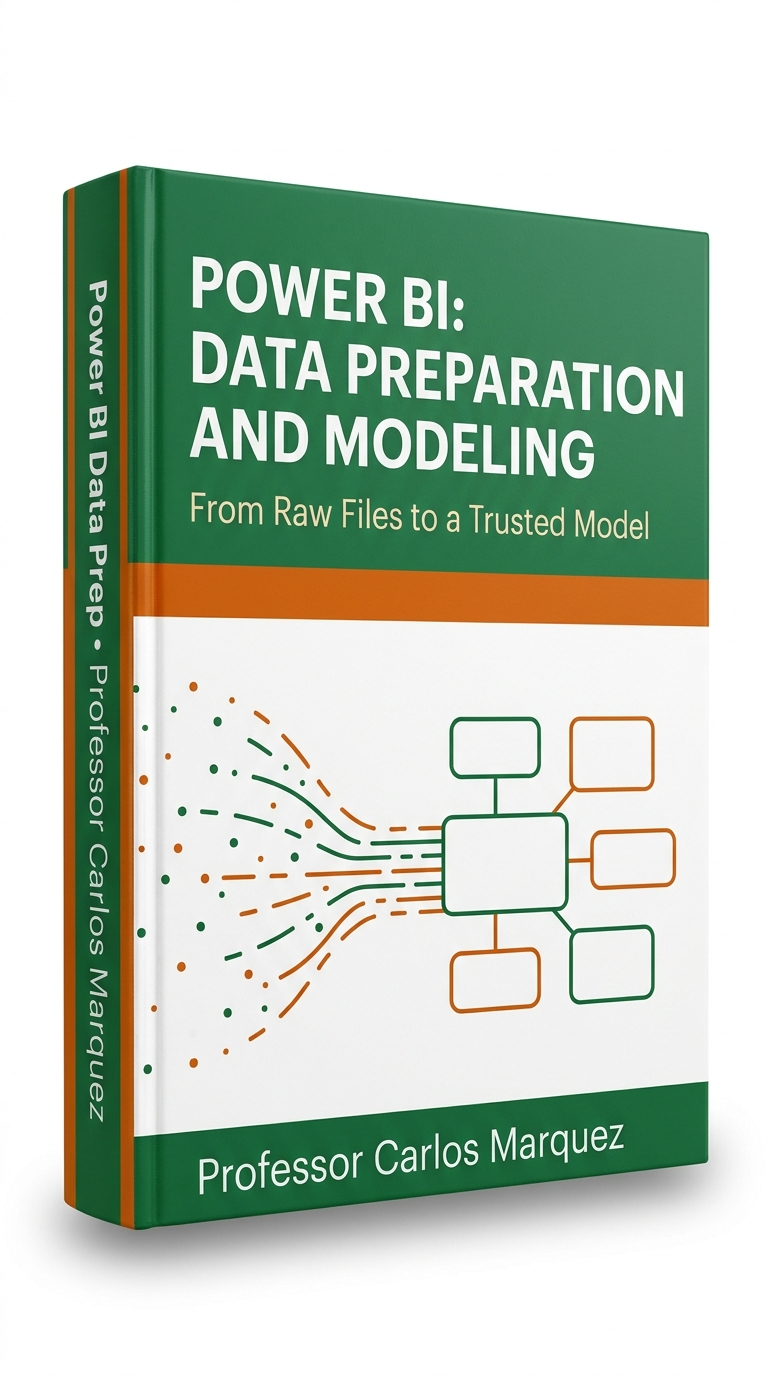
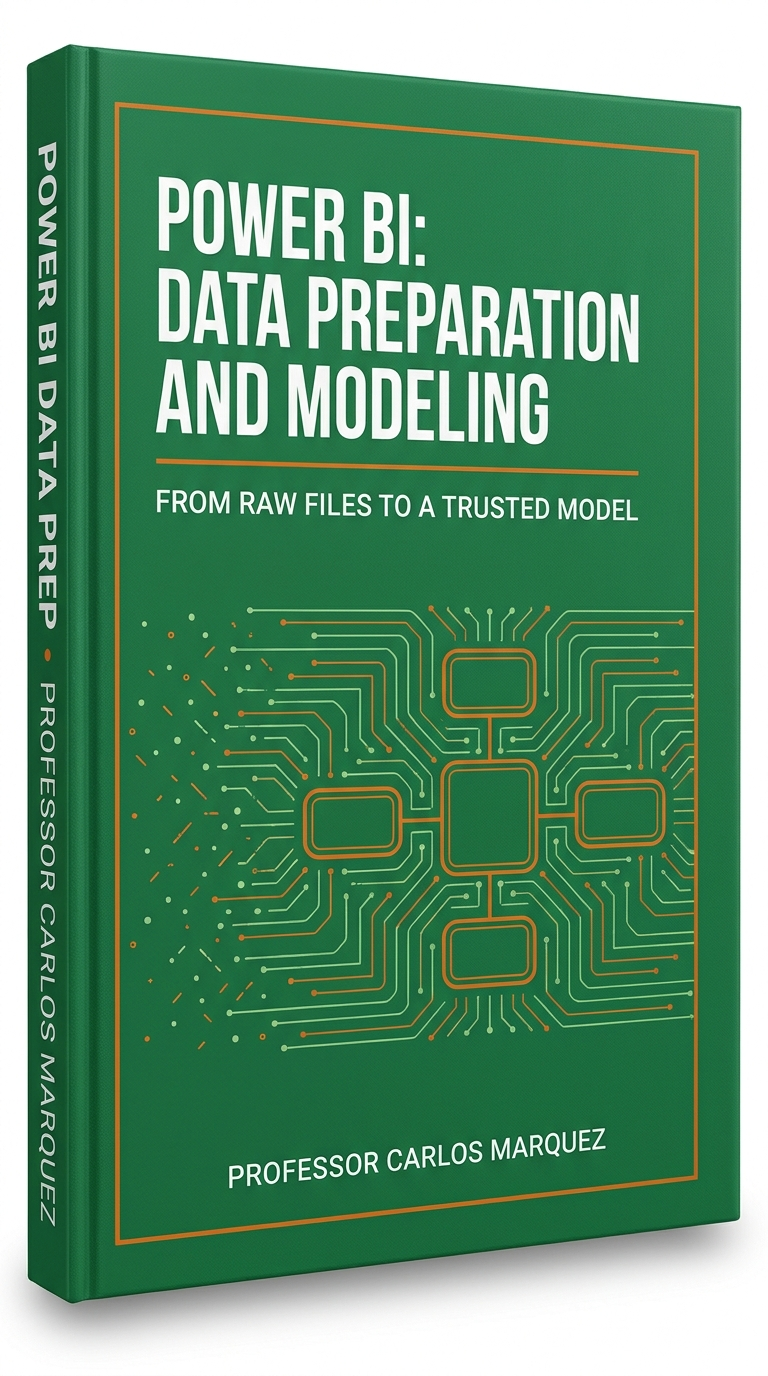
Replace the cover with the Lee-style version (solid green, orange frame) and update its alt text

diff --git a/index.md b/index.md
@@ -5,7 +5,7 @@ description: "A textbook on preparing and modeling data in Power BI Desktop, fro
 ---
 :::{figure} images/cover.png
 :label: fig-cover
-:alt: Book cover with a green top band holding the white title and cream subtitle, an orange stripe, and a white lower half where green and orange dots and lines flow into five linked boxes. The author's name, Professor Carlos Marquez, is in a green strip at the bottom.
+:alt: Mid-green hardcover book with a thin orange frame. The white title and subtitle sit above fine lines that flow from loose dots into five linked boxes outlined in orange, with the author's name, Professor Carlos Marquez, below.
 :width: 100%
 :align: center
 
